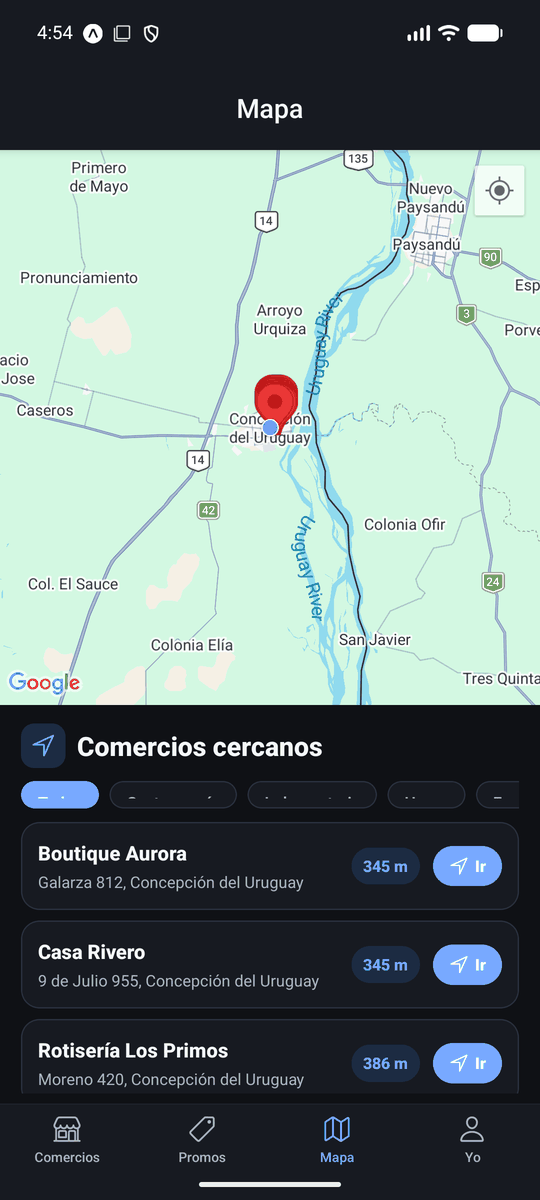
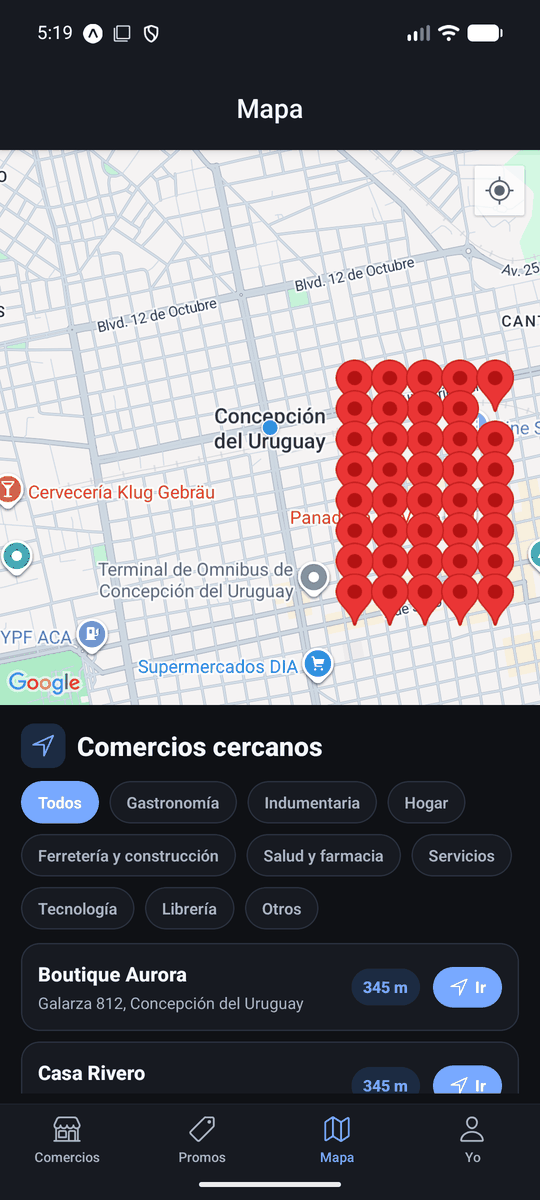
Mapa: chips de rubro con palabra completa (View con wrap en vez de ScrollView horizontal)

diff --git a/app/(tabs)/mapa.tsx b/app/(tabs)/mapa.tsx
@@ -3,6 +3,7 @@ import { router } from "expo-router";
 import { useEffect, useMemo, useState } from "react";
 import {
   ActivityIndicator,
+  Linking,
   Pressable,
   ScrollView,
   StyleSheet,
@@ -13,11 +14,12 @@ import MapView, { Marker, Region } from "react-native-maps";
 
 import { useTema } from "../../src/contexto/tema";
 import { obtenerComercios } from "../../src/servicios/comercios";
+import { obtenerRubros } from "../../src/servicios/rubros";
 import {
   obtenerUbicacionActual,
   UbicacionUsuario,
 } from "../../src/servicios/ubicacion";
-import { Comercio } from "../../src/tipos/modelos";
+import { Comercio, Rubro } from "../../src/tipos/modelos";
 import {
   calcularDistanciaKm,
   formatearDistancia,
@@ -30,15 +32,18 @@ const REGION_CONCEPCION: Region = {
   longitudeDelta: 0.03,
 };
 
-interface ComercioConDistancia {
+interface ComercioEnMapa {
   comercio: Comercio;
-  distanciaKm: number;
+  /** null cuando se negó la ubicación: no se puede calcular distancia. */
+  distanciaKm: number | null;
 }
 
 export default function MapaScreen() {
   const { colores, tema } = useTema();
   const styles = useMemo(() => crearEstilos(colores), [colores]);
   const [comercios, setComercios] = useState<Comercio[]>([]);
+  const [rubros, setRubros] = useState<Rubro[]>([]);
+  const [rubroFiltro, setRubroFiltro] = useState<string | null>(null);
   const [ubicacionUsuario, setUbicacionUsuario] = useState<UbicacionUsuario | null>(null);
   const [permisoDenegado, setPermisoDenegado] = useState(false);
   const [cargando, setCargando] = useState(true);
@@ -54,14 +59,25 @@ export default function MapaScreen() {
         const comerciosObtenidos = await obtenerComercios();
         setComercios(comerciosObtenidos);
 
-        const ubicacion = await obtenerUbicacionActual();
+        // El filtro por rubro vive en el mapa: sin la lista de rubros no hay chips.
+        obtenerRubros()
+          .then(setRubros)
+          .catch(() => setRubros([]));
 
-        if (!ubicacion) {
+        // Un problema de ubicación no tiene que tumbar el mapa: sin ubicación
+        // la lista muestra todos los comercios sin distancia (aviso arriba).
+        try {
+          const ubicacion = await obtenerUbicacionActual();
+
+          if (!ubicacion) {
+            setPermisoDenegado(true);
+            return;
+          }
+
+          setUbicacionUsuario(ubicacion);
+        } catch {
           setPermisoDenegado(true);
-          return;
         }
-
-        setUbicacionUsuario(ubicacion);
       } catch {
         setError("No fue posible cargar la información del mapa.");
       } finally {
@@ -72,16 +88,32 @@ export default function MapaScreen() {
     void cargarMapa();
   }, []);
 
-  const comerciosCercanos = useMemo<ComercioConDistancia[]>(() => {
-    if (!ubicacionUsuario) return [];
+  const comerciosFiltrados = useMemo(() => {
+    if (!rubroFiltro) {
+      return comercios;
+    }
 
-    return comercios
-      .map((comercio) => ({
-        comercio,
-        distanciaKm: calcularDistanciaKm(ubicacionUsuario, comercio.coordenadas),
-      }))
-      .sort((a, b) => a.distanciaKm - b.distanciaKm);
-  }, [comercios, ubicacionUsuario]);
+    return comercios.filter((comercio) => comercio.rubroId === rubroFiltro);
+  }, [comercios, rubroFiltro]);
+
+  const comerciosEnMapa = useMemo<ComercioEnMapa[]>(() => {
+    return comerciosFiltrados.map((comercio) => ({
+      comercio,
+      distanciaKm: ubicacionUsuario
+        ? calcularDistanciaKm(ubicacionUsuario, comercio.coordenadas)
+        : null,
+    })).sort((a, b) => (a.distanciaKm ?? Infinity) - (b.distanciaKm ?? Infinity));
+  }, [comerciosFiltrados, ubicacionUsuario]);
+
+  // "Ir" del PRD: la app de mapas del teléfono lleva al local, caminando o en
+  // auto (el modo lo elige el usuario dentro de Google Maps).
+  async function irAComercio(comercio: Comercio) {
+    const { latitud, longitud } = comercio.coordenadas;
+
+    await Linking.openURL(
+      `https://www.google.com/maps/dir/?api=1&destination=${latitud},${longitud}`,
+    );
+  }
 
   if (cargando) {
     return (
@@ -121,7 +153,7 @@ export default function MapaScreen() {
         showsUserLocation={ubicacionUsuario !== null}
         showsMyLocationButton={ubicacionUsuario !== null}
       >
-        {comercios.map((comercio) => (
+        {comerciosFiltrados.map((comercio) => (
           <Marker
             key={comercio.id}
             coordinate={{
@@ -143,6 +175,51 @@ export default function MapaScreen() {
           <Text style={styles.panelTitulo}>Comercios cercanos</Text>
         </View>
 
+        {rubros.length > 0 ? (
+          <View style={styles.filaChips}>
+            <Pressable
+              onPress={() => setRubroFiltro(null)}
+              style={[styles.chip, rubroFiltro === null && styles.chipSeleccionado]}
+              accessibilityRole="button"
+              accessibilityState={{ selected: rubroFiltro === null }}
+              accessibilityLabel="Filtrar el mapa por todos los rubros"
+            >
+              <Text
+                style={[
+                  styles.chipTexto,
+                  rubroFiltro === null && styles.chipSeleccionadoTexto,
+                ]}
+              >
+                Todos
+              </Text>
+            </Pressable>
+
+            {rubros.map((rubro) => {
+              const seleccionado = rubroFiltro === rubro.id;
+
+              return (
+                <Pressable
+                  key={rubro.id}
+                  onPress={() => setRubroFiltro(seleccionado ? null : rubro.id)}
+                  style={[styles.chip, seleccionado && styles.chipSeleccionado]}
+                  accessibilityRole="button"
+                  accessibilityState={{ selected: seleccionado }}
+                  accessibilityLabel={`Filtrar el mapa por rubro ${rubro.nombre}`}
+                >
+                  <Text
+                    style={[
+                      styles.chipTexto,
+                      seleccionado && styles.chipSeleccionadoTexto,
+                    ]}
+                  >
+                    {rubro.nombre}
+                  </Text>
+                </Pressable>
+              );
+            })}
+          </View>
+        ) : null}
+
         {permisoDenegado ? (
           <View style={styles.aviso}>
             <Ionicons name="location-outline" size={20} color={colores.promo} />
@@ -151,11 +228,15 @@ export default function MapaScreen() {
               consultar todos los comercios.
             </Text>
           </View>
-        ) : comerciosCercanos.length === 0 ? (
-          <Text style={styles.avisoTexto}>No hay comercios disponibles.</Text>
+        ) : comerciosEnMapa.length === 0 ? (
+          <Text style={styles.avisoTexto}>
+            {rubroFiltro
+              ? "No hay comercios de ese rubro en el mapa."
+              : "No hay comercios disponibles."}
+          </Text>
         ) : (
           <ScrollView contentContainerStyle={styles.listaContenido}>
-            {comerciosCercanos.map(({ comercio, distanciaKm }) => (
+            {comerciosEnMapa.map(({ comercio, distanciaKm }) => (
               <Pressable
                 key={comercio.id}
                 style={styles.comercioItem}
@@ -168,11 +249,27 @@ export default function MapaScreen() {
                   <Text style={styles.comercioDireccion}>{comercio.direccion}</Text>
                 </View>
 
-                <View style={styles.distanciaChip}>
-                  <Text style={styles.comercioDistancia}>
-                    {formatearDistancia(distanciaKm)}
-                  </Text>
-                </View>
+                {distanciaKm !== null ? (
+                  <View style={styles.distanciaChip}>
+                    <Text style={styles.comercioDistancia}>
+                      {formatearDistancia(distanciaKm)}
+                    </Text>
+                  </View>
+                ) : null}
+
+                <Pressable
+                  onPress={() => void irAComercio(comercio)}
+                  style={styles.irBoton}
+                  accessibilityRole="button"
+                  accessibilityLabel={`Cómo llegar a ${comercio.nombre}`}
+                >
+                  <Ionicons
+                    name="navigate-outline"
+                    size={16}
+                    color="#FFFFFF"
+                  />
+                  <Text style={styles.irTexto}>Ir</Text>
+                </Pressable>
               </Pressable>
             ))}
           </ScrollView>
@@ -203,6 +300,23 @@ function crearEstilos(colores: ReturnType<typeof useTema>["colores"]) {
       justifyContent: "center",
     },
     panelTitulo: { fontSize: 20, fontWeight: "800", color: colores.texto },
+    // flexShrink 0: los chips no se comprimen cuando el panel aprieta —
+    // la lista de abajo (scrollable) es la que cede espacio.
+    filaChips: { flexDirection: "row", flexWrap: "wrap", flexShrink: 0, gap: 8, marginBottom: 10 },
+    chip: {
+      paddingHorizontal: 12,
+      paddingVertical: 7,
+      borderRadius: 999,
+      borderWidth: 1,
+      borderColor: colores.borde,
+      backgroundColor: colores.tarjeta,
+    },
+    chipTexto: { fontSize: 12, fontWeight: "600", color: colores.secundario },
+    chipSeleccionado: {
+      backgroundColor: colores.primario,
+      borderColor: colores.primario,
+    },
+    chipSeleccionadoTexto: { color: "#FFFFFF", fontWeight: "700" },
     listaContenido: { paddingBottom: 12, gap: 8 },
     comercioItem: {
       borderWidth: 1,
@@ -212,7 +326,7 @@ function crearEstilos(colores: ReturnType<typeof useTema>["colores"]) {
       flexDirection: "row",
       alignItems: "center",
       justifyContent: "space-between",
-      gap: 12,
+      gap: 10,
       backgroundColor: colores.tarjeta,
     },
     comercioInformacion: { flex: 1 },
@@ -225,6 +339,16 @@ function crearEstilos(colores: ReturnType<typeof useTema>["colores"]) {
       paddingVertical: 6,
     },
     comercioDistancia: { fontSize: 12, fontWeight: "800", color: colores.primario },
+    irBoton: {
+      flexDirection: "row",
+      alignItems: "center",
+      gap: 4,
+      backgroundColor: colores.primario,
+      borderRadius: 999,
+      paddingHorizontal: 12,
+      paddingVertical: 7,
+    },
+    irTexto: { fontSize: 12, fontWeight: "800", color: "#FFFFFF" },
     estadoContainer: {
       flex: 1,
       backgroundColor: colores.fondo,
